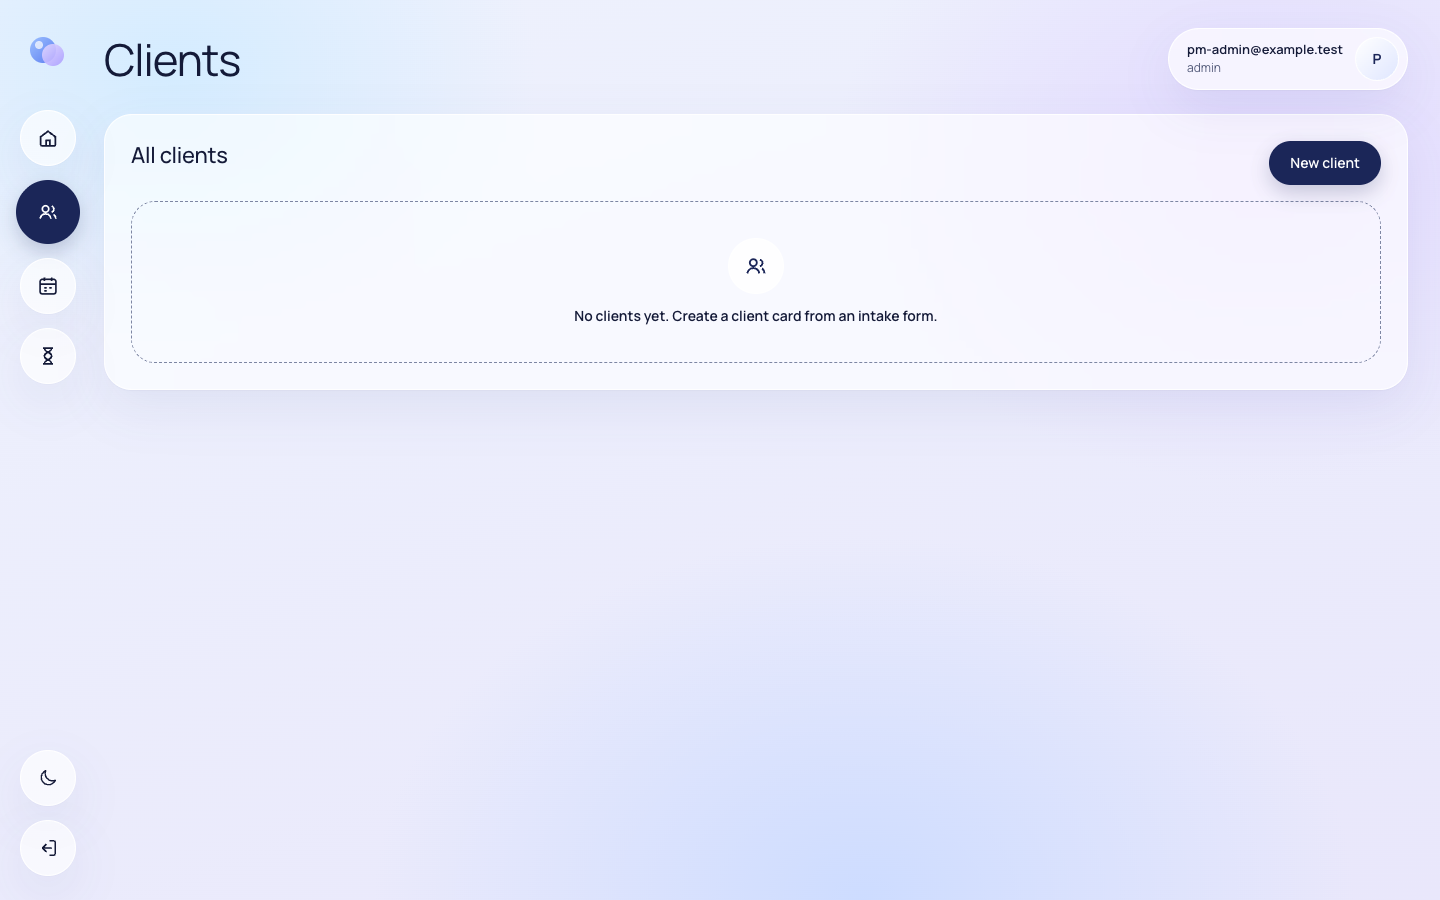
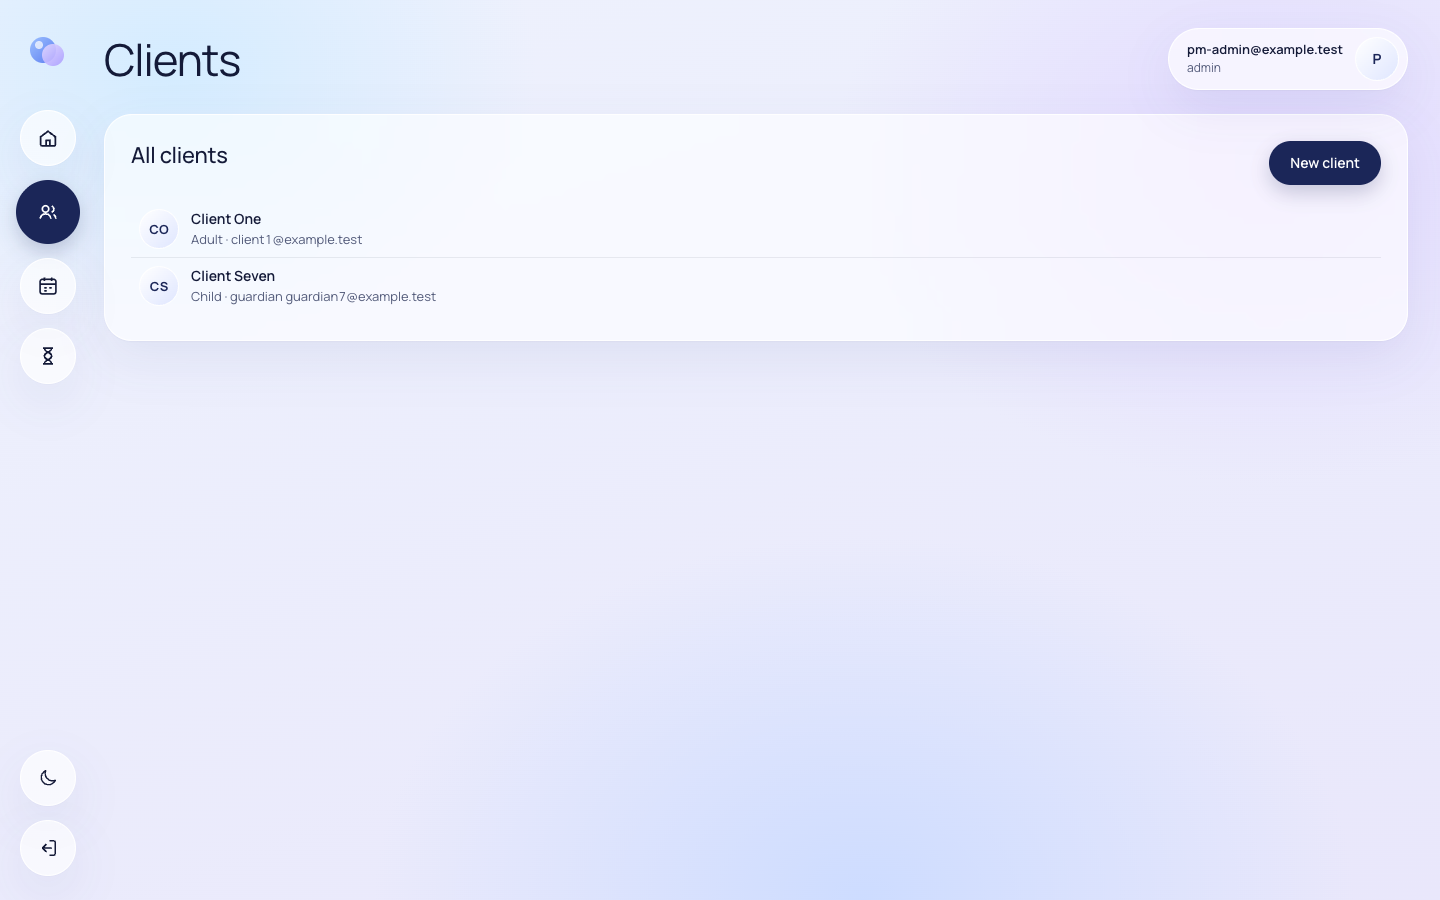
Трек E: знімки з синтетичними клієнтами й утриманнями (pm-scheduler, therapist1, pm-admin)
Client One і Client Seven створено через інтерфейс проду від імені pm-scheduler; утримання в Therapist One на
2026-10-28 (10:00 підтверджено, 11:00 Held). Додано список і картку клієнта, /holds і /slots з утриманнями, розклад і
клієнтів therapist1; README — таблиці за роллю з AC.

Changed region(s): [[0.4062, 0.3422, 0.9688, 0.4044], [0.125, 0.2178, 0.2812, 0.3422], [0.5, 0.28, 0.5312, 0.3111]]

diff --git a/docs/img/roles/README.md b/docs/img/roles/README.md
@@ -2,23 +2,52 @@
 
 - **Де й коли:** https://therapy-scheduling-two.vercel.app, 2026-10-27 вечір за часом практики (America/Los_Angeles),
   1440×900, світла тема.
-- **Акаунти:** PM-акаунти з `supabase/demo-users.json` (`npm run users:demo`); пароль — лише в чаті з PM.
+- **Акаунти:**
+  - PM-акаунти з `supabase/demo-users.json` (`npm run users:demo`); пароль — лише в чаті з PM;
+  - розклад і клієнти терапевта — від `therapist1@example.test`, бо в pm-therapist немає годин доступності.
 - **Горизонтальна прокрутка:** на всіх сторінках немає (`scrollWidth` = ширина вікна).
-- **Дані:** лише синтетичні. Знімки, де були несинтетичні картки клієнтів, не потрапили сюди. Ці картки видалено
-  міграцією `20261027212409_remove_non_synthetic_clients.sql` (PR #29).
-- **Чого ще немає:** знімків «All clients», картки клієнта й розкладу терапевта з утриманнями. На проді поки немає
-  синтетичних клієнтів і утримань, тож ці знімки додамо після них.
+- **Дані — лише синтетичні:**
+  - несинтетичні картки клієнтів видалено міграцією `20261027212409_remove_non_synthetic_clients.sql` (PR #29); знімків
+    із ними тут немає;
+  - потім від імені pm-scheduler через інтерфейс проду створено дві картки — Client One (дорослий,
+    `client1@example.test`) і Client Seven (дитина, опікун `guardian7@example.test`);
+  - і два утримання в Therapist One на 2026-10-28: 10:00 — Client One, підтверджено (сеанс); 11:00 — Client Seven,
+    «Held» до 2026-10-28 14:43.
+- **Порожні стани:** знімки з порожніми станами (`therapist-clients`, `admin-holds`) зроблено до появи цих даних.
 
-| Файл | Роль | Сторінка | Що видно | AC |
-|---|---|---|---|---|
-| `therapist-my-schedule.png` | pm-therapist | `/my-schedule` | тиждень пн–нд 2026-10-26 – 11-01, «Previous / This / Next week»; у pm-therapist немає доступності — «No slots on this day.» | AC-HOLD-30 |
-| `therapist-slots.png` | pm-therapist | `/slots` | «Only schedulers and admins can view this page.» | AC-HOLD-44 |
-| `therapist-holds.png` | pm-therapist | `/holds` | «Only schedulers and admins can view this page.» | AC-HOLD-44 |
-| `therapist-clients-new.png` | pm-therapist | `/clients/new` | «Only schedulers and admins can create client cards.» | AC-CARD-06 |
-| `therapist-clients.png` | pm-therapist | `/clients` | «My clients» — «No clients yet. Clients appear here when a scheduler holds a slot with you.» | AC-CARD-04 |
-| `scheduler-slots.png` | pm-scheduler | `/slots` | три терапевти поруч; минулі години — «Past»; у PM Therapist немає слотів — «No free slots on this day.» | AC-HOLD-24, AC-HOLD-32 |
-| `scheduler-holds.png` | pm-scheduler | `/holds` | «Upcoming holds» — «No holds.» (порожній стан) | — |
-| `scheduler-clients-new.png` | pm-scheduler | `/clients/new` | форма анкети клієнта | AC-CARD-01 |
-| `admin-home.png` | pm-admin | `/` | акаунт: email і роль admin | — |
-| `admin-holds.png` | pm-admin | `/holds` | «Upcoming holds» — «No holds.» (порожній стан) | — |
-| `admin-clients.png` | pm-admin | `/clients` | «All clients» — «No clients yet. Create a client card from an intake form.» (після PR #29) | AC-CARD-10 |
+## pm-therapist (без власних клієнтів і доступності)
+
+| Файл | Сторінка | Що видно | AC |
+|---|---|---|---|
+| `therapist-my-schedule.png` | `/my-schedule` | тиждень пн–нд 2026-10-26 – 11-01, «Previous / This / Next week»; «No slots on this day.» | AC-HOLD-30 |
+| `therapist-slots.png` | `/slots` | «Only schedulers and admins can view this page.» | AC-HOLD-44 |
+| `therapist-holds.png` | `/holds` | «Only schedulers and admins can view this page.» | AC-HOLD-44 |
+| `therapist-clients-new.png` | `/clients/new` | «Only schedulers and admins can create client cards.» | AC-CARD-06 |
+| `therapist-clients.png` | `/clients` | «My clients» — «No clients yet. Clients appear here when a scheduler holds a slot with you.» | AC-CARD-04 |
+
+## therapist1 (утримання й сеанс на 2026-10-28)
+
+| Файл | Сторінка | Що видно | AC |
+|---|---|---|---|
+| `therapist1-my-schedule.png` | `/my-schedule?week=2026-10-26` | середа 2026-10-28: 10:00 Client One «Confirmed», 11:00 Client Seven «Held» до 14:43, решта «Free»; лише ім'я клієнта, без email | AC-HOLD-09, AC-HOLD-40 |
+| `therapist1-clients.png` | `/clients` | «My clients»: Client One і Client Seven — клієнти з утриманням чи сеансом у нього | AC-CARD-04 |
+| `therapist1-client-card.png` | `/clients/<id>` | картка Client One: тип, дата народження, мова, email — свій клієнт відкривається | AC-CARD-04 |
+
+## pm-scheduler
+
+| Файл | Сторінка | Що видно | AC |
+|---|---|---|---|
+| `scheduler-slots.png` | `/slots` (2026-10-27) | три терапевти поруч; минулі години — «Past»; у PM Therapist немає слотів — «No free slots on this day.» | AC-HOLD-24, AC-HOLD-32 |
+| `scheduler-slots-2026-10-28.png` | `/slots?therapist=…&date=2026-10-28` | Therapist One: 10:00 Client One «Confirmed», 11:00 Client Seven «Held» з кнопкою Confirm, вільні — «Hold» | AC-HOLD-01 |
+| `scheduler-holds.png` | `/holds` | «Upcoming holds»: 2026-10-28 11:00 Client Seven, Therapist One, «Held», «Held until 2026-10-28 14:43», Confirm; підтверджений сеанс у списку не показано | AC-HOLD-38 |
+| `scheduler-clients.png` | `/clients` | «All clients»: Client One (Adult · email), Client Seven (Child · guardian email) | AC-CARD-10 |
+| `scheduler-client-card.png` | `/clients/<id>` | картка Client One з даними анкети | AC-CARD-10 |
+| `scheduler-clients-new.png` | `/clients/new` | форма анкети клієнта | AC-CARD-01 |
+
+## pm-admin
+
+| Файл | Сторінка | Що видно | AC |
+|---|---|---|---|
+| `admin-home.png` | `/` | акаунт: email і роль admin | — |
+| `admin-holds.png` | `/holds` | «Upcoming holds» — «No holds.» (до появи утримань) | — |
+| `admin-clients.png` | `/clients` | «All clients»: Client One і Client Seven | AC-CARD-10 |
